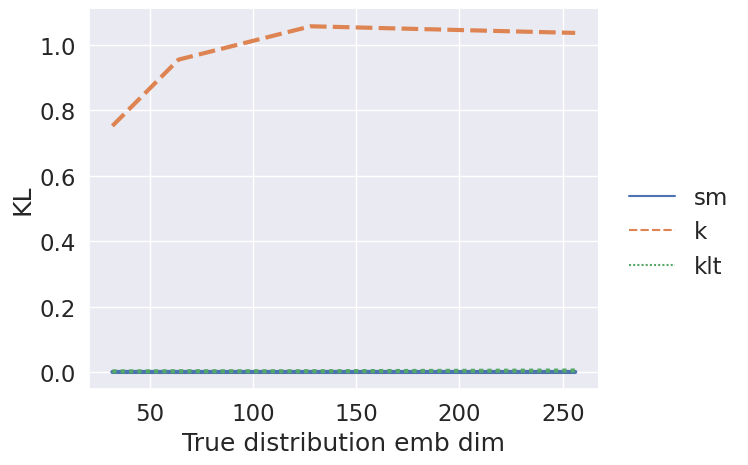
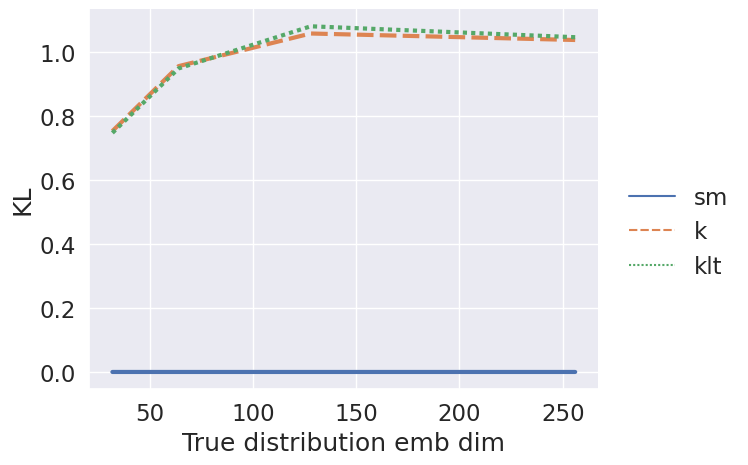
.

diff --git a/models/sblhmmlm.py b/models/sblhmmlm.py
@@ -45,8 +45,6 @@ class SblHmmLm(nn.Module):
         self.learn_temp = config.learn_temp
         if self.learn_temp == "mul":
             self.temp = nn.Parameter(th.FloatTensor([1]))
-        elif self.learn_temp == "add":
-            self.temp = nn.Parameter(th.FloatTensor([0]))
 
         # init parameters
 
@@ -241,25 +239,23 @@ class SblHmmLm(nn.Module):
             logits = fx @ fy.T if states is None else fx @ fy[states].T
             if self.learn_temp == "mul":
                 logits = logits * self.temp
-            elif self.learn_temp == "add":
-                logits = logits + self.temp
             return logits.log_softmax(-1)
         elif self.parameterization == "smp" and not self.sm_trans:
             fy = self.next_state_emb if states is None else self.next_state_emb[states]
-            projection = self.projection if keep_feat_mask is None else self.projection[:,keep_feat_mask]
             if self.l2norm:
                 fx = fx / fx.norm(dim=-1, keepdim=True)
                 fy = fy / fy.norm(dim=-1, keepdim=True)
+
+            projection = self.projection if keep_feat_mask is None else self.projection[:,keep_feat_mask]
+            if self.learn_temp == "mul":
+                projection = projection * self.temp
+
             logits = project_logits(
                 fx[None, None],
                 fy[None],
                 projection,
                 rff_method = self.config.rff_method,
             )[0,0]
-            if self.learn_temp == "mul":
-                logits = logits * self.temp
-            elif self.learn_temp == "add":
-                logits = logits + self.temp
             return logits.log_softmax(-1)
         else:
             raise ValueError(f"Invalid parameterization: {self.parameterization}")
@@ -277,17 +273,19 @@ class SblHmmLm(nn.Module):
             #logits = logits.masked_fill(logits != logits, float("-inf"))
             if self.learn_temp == "mul":
                 logits = logits * self.temp
-            elif self.learn_temp == "add":
-                logits = logits + self.temp
             return logits.log_softmax(-1)
         elif self.parameterization == "smp" and not self.sm_trans:
             fx = fx if states is None else fx[states]
             fy = self.next_state_emb if states is None else self.next_state_emb[states]
-            projection = self.projection if keep_feat_mask is None else self.projection[:,keep_feat_mask]
             # important to renormalize. maybe move this into project_logits
             if self.l2norm:
                 fx = fx / fx.norm(dim=-1, keepdim=True)
                 fy = fy / fy.norm(dim=-1, keepdim=True)
+
+            projection = self.projection if keep_feat_mask is None else self.projection[:,keep_feat_mask]
+            if self.learn_temp == "mul":
+                projection = projection * self.temp
+
             logits = project_logits(
                 fx[None],
                 fy[None],
@@ -296,10 +294,6 @@ class SblHmmLm(nn.Module):
                 fast = False, # save memory by using genbmm.logbmm
             )[0]
             #import pdb; pdb.set_trace()
-            if self.learn_temp == "mul":
-                logits = logits * self.temp
-            elif self.learn_temp == "add":
-                logits = logits + self.temp
             return logits.log_softmax(-1)
         else:
             raise ValueError(f"Invalid parameterization: {self.parameterization}")
@@ -542,15 +536,11 @@ class SblHmmLm(nn.Module):
 
         # sum vectors and sum matrices
         projection = self.projection if feat_mask is None else self.projection[:,~feat_mask]
+        if self.learn_temp == "mul":
+            projection = projection * self.temp
+
         log_phi_w = state_emb @ projection
         log_phi_u = next_state_emb @ projection
-
-        if self.learn_temp == "mul":
-            log_phi_w = log_phi_w * self.temp
-            log_phi_u = log_phi_u * self.temp
-        elif self.learn_temp == "add":
-            log_phi_w = log_phi_w + self.temp
-            log_phi_u = log_phi_u + self.temp
 
         # Todo: abstract away performer kernel
         #log_phi_w = state_emb @ projection - state_emb.square().sum(-1, keepdim=True) / 2
@@ -613,15 +603,11 @@ class SblHmmLm(nn.Module):
 
         # sum vectors and sum matrices
         projection = self.projection
+        if self.learn_temp == "mul":
+            projection = projection * self.temp
         log_phi_w = state_emb @ projection
         log_phi_u = next_state_emb @ projection
 
-        if self.learn_temp == "mul":
-            log_phi_w = log_phi_w * self.temp
-            log_phi_u = log_phi_u * self.temp
-        elif self.learn_temp == "add":
-            log_phi_w = log_phi_w + self.temp
-            log_phi_u = log_phi_u + self.temp
         # TODO: abstract away perfomer kernel
         #log_phi_w = state_emb @ projection - state_emb.square().sum(-1, keepdim=True) / 2
         #log_phi_u = next_state_emb @ projection - next_state_emb.square().sum(-1, keepdim=True) / 2

diff --git a/models/blhmmlm.py b/models/blhmmlm.py
@@ -183,25 +183,21 @@ class BLHmmLm(nn.Module):
             logits = fx @ fy.T if mask is None else fx @ fy[keep_mask].T
             if self.learn_temp == "mul":
                 logits = logits * self.temp
-            elif self.learn_temp == "add":
-                logits = logits + self.temp
             return logits.log_softmax(-1)
         elif self.parameterization == "smp" and not self.sm_trans:
             fy = self.next_state_emb if keep_mask is None else self.next_state_emb[keep_mask]
-            projection = self.projection if keep_feat_mask is None else self.projection[:,keep_feat_mask]
             if self.l2norm:
                 fx = fx / fx.norm(dim=-1, keepdim=True)
                 fy = fy / fy.norm(dim=-1, keepdim=True)
+            projection = self.projection if keep_feat_mask is None else self.projection[:,keep_feat_mask]
+            if self.learn_temp == "mul":
+                projection = projection * self.temp
             logits = project_logits(
                 fx[None, None],
                 fy[None],
                 projection,
                 rff_method = self.config.rff_method,
             )[0,0]
-            if self.learn_temp == "mul":
-                logits = logits * self.temp
-            elif self.learn_temp == "add":
-                logits = logits + self.temp
             return logits.log_softmax(-1)
         else:
             raise ValueError(f"Invalid parameterization: {self.parameterization}")
@@ -218,8 +214,6 @@ class BLHmmLm(nn.Module):
             )
             if self.learn_temp == "mul":
                 logits = logits * self.temp
-            elif self.learn_temp == "add":
-                logits = logits + self.temp
             #logits = logits.masked_fill(logits != logits, float("-inf"))
             return logits.log_softmax(-1)
         elif self.parameterization == "smp" and not self.sm_trans:
@@ -230,6 +224,8 @@ class BLHmmLm(nn.Module):
             if self.l2norm:
                 fx = fx / fx.norm(dim=-1, keepdim=True)
                 fy = fy / fy.norm(dim=-1, keepdim=True)
+            if self.learn_temp == "mul":
+                projection = projection * self.temp
             logits = project_logits(
                 fx[None],
                 fy[None],
@@ -237,10 +233,6 @@ class BLHmmLm(nn.Module):
                 rff_method = self.config.rff_method,
                 fast = False, # save memory by using genbmm.logbmm
             )[0]
-            if self.learn_temp == "mul":
-                logits = logits * self.temp
-            elif self.learn_temp == "add":
-                logits = logits + self.temp
             return logits.log_softmax(-1)
         else:
             raise ValueError(f"Invalid parameterization: {self.parameterization}")
@@ -500,14 +492,10 @@ class BLHmmLm(nn.Module):
 
         # sum vectors and sum matrices
         projection = self.projection if feat_mask is None else self.projection[:,~feat_mask]
+        if self.learn_temp == "mul":
+            projection = projection * self.temp
         log_phi_w = (state_emb @ projection)
         log_phi_u = next_state_emb @ projection
-        if self.learn_temp == "mul":
-            log_phi_w = log_phi_w * self.temp
-            log_phi_u = log_phi_u * self.temp
-        elif self.learn_temp == "add":
-            log_phi_w = log_phi_w + self.temp
-            log_phi_u = log_phi_u + self.temp
         # TODO: performer kernel, abstract away
         #log_phi_w = state_emb @ projection - state_emb.square().sum(-1, keepdim=True) / 2
         #log_phi_u = next_state_emb @ projection - next_state_emb.square().sum(-1, keepdim=True) / 2
@@ -556,14 +544,12 @@ class BLHmmLm(nn.Module):
             next_state_emb = self.next_state_emb
 
         # sum vectors and sum matrices
-        log_phi_w = state_emb @ self.projection
-        log_phi_u = next_state_emb @ self.projection
+        projection = self.projection
         if self.learn_temp == "mul":
-            log_phi_w = log_phi_w * self.temp
-            log_phi_u = log_phi_u * self.temp
-        elif self.learn_temp == "add":
-            log_phi_w = log_phi_w + self.temp
-            log_phi_u = log_phi_u + self.temp
+            projection = projection * self.temp
+        log_phi_w = state_emb @ projection
+        log_phi_u = next_state_emb @ projection
+
         # TODO: performer kernel, abstract away
         #log_phi_w = state_emb @ projection - state_emb.square().sum(-1, keepdim=True) / 2
         #log_phi_u = next_state_emb @ projection - next_state_emb.square().sum(-1, keepdim=True) / 2

diff --git a/cat_tests/test_hyps.py b/cat_tests/test_hyps.py
@@ -84,12 +84,12 @@ class Cat(nn.Module):
             return (fx @ fy.T) / self.temp
         else:
             proj = (self.proj if not self.random_feature
-                else self.sample_proj().to(self.proj.device))
+                else self.sample_proj().to(self.proj.device)) / self.temp
             L = fx @ proj
             R = fy @ proj
             #L = fx @ proj - fx.square().sum(-1, keepdim=True) / 2
             #R = fy @ proj - fy.square().sum(-1, keepdim=True) / 2
-            return (L[:,None,:] + R[None,:,:]).logsumexp(-1) / self.temp
+            return (L[:,None,:] + R[None,:,:]).logsumexp(-1)
 
     def kl(self, true_dist):
         return (true_dist.exp() * (true_dist - self.log_probs())).sum(-1).mean()

diff --git a/cat_tests/test_sv.py b/cat_tests/test_sv.py
@@ -1,0 +1,31 @@
+
+# check rank of low rank decomposition with normalization
+import torch
+
+n = 256
+d = 64
+
+temp = 0.5
+
+A = torch.randn(n, d)
+B = torch.randn(n, d)
+C = ((A @ B.T) / temp).softmax(-1)
+u, s, v = C.svd()
+print("softmax")
+print((s > 1e-3).sum())
+
+A = torch.randn(n, d)
+B = torch.randn(n, d)
+C = ((A.exp() @ B.T.exp()).log() / temp).softmax(-1)
+u, s, v = C.svd()
+print("wrong temp = polynomial kernel?")
+print((s > 1e-3).sum())
+
+A = torch.randn(n, d) / temp
+B = torch.randn(n, d) / temp
+C = ((A.exp() @ B.T.exp()).log()).softmax(-1)
+u, s, v = C.svd()
+print("normal temp")
+print((s > 1e-3).sum())
+
+import pdb; pdb.set_trace()

diff --git a/transition_analysis/svd.py b/transition_analysis/svd.py
@@ -1,0 +1,22 @@
+
+import numpy as np
+
+from pathlib import Path
+
+import seaborn as sns
+import matplotlib.pyplot as plt
+
+def plot_svs(transition, filename):
+    # log
+    svs = np.linalg.svd(np.exp(transition), compute_uv=False)
+    fig, ax = plt.subplots()
+    g = sns.scatterplot(x=np.arange(len(svs)),y=svs, ax=ax)
+    fig.savefig(f"{filename}-svd.png")
+    plt.close(fig)
+
+transition_dir = Path("transitions")
+for filename in transition_dir.iterdir():
+    # log
+    transition = np.load(filename)
+    print(filename)
+    plot_svs(transition, filename)

diff --git a/main.py b/main.py
@@ -491,7 +491,6 @@ def main():
     global WANDB_STEP
     #args = get_args(argstrings.lm_args)
     args = get_args()
-    print(args)
 
     set_seed(args.seed)
 
@@ -569,6 +568,9 @@ def main():
     import tempfile
     wandb.init(project="linear-hmm", name=name, config=args, dir=tempfile.mkdtemp())
     args.name = name
+
+    print(" ".join(sys.argv))
+    print(args)
 
     model = None
     if args.model == "lstm":

diff --git a/utils.py b/utils.py
@@ -219,7 +219,6 @@ def print_gpu_mem():
 
 def dump_transition(hmm):
     transition = hmm.transition()
-    np.save(f"{hmm.parameterization}-transition.npy", transition.detach().cpu().numpy())
-    import sys
-    sys.exit()
+    name = get_name(hmm.config)
+    np.save(f"transitions/{name}-transition.npy", transition.detach().cpu().numpy())
 
